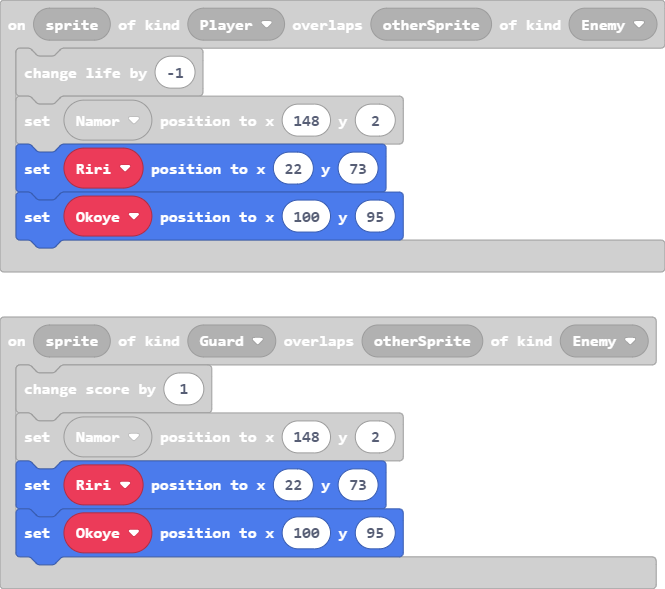
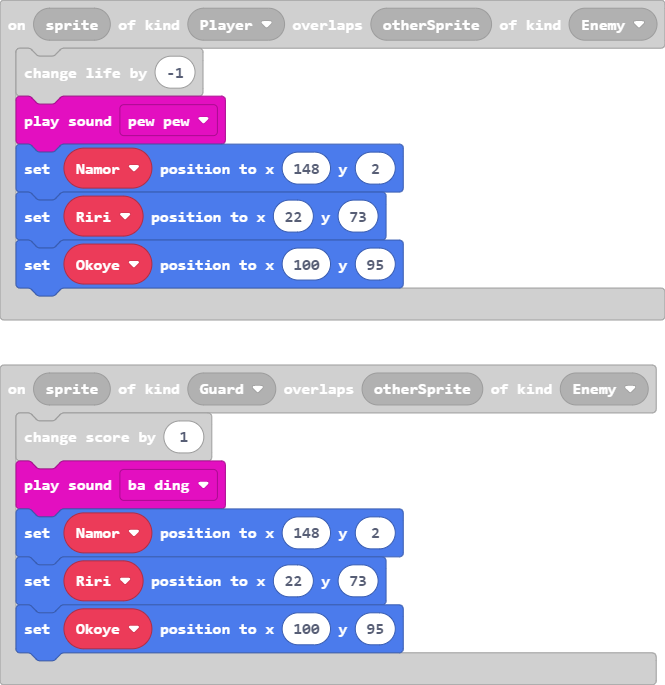
added music

Changed region(s): [[0.0, 0.5195, 0.9925, 0.9779], [0.0, 0.0306, 1.0, 0.489]]

diff --git a/main.ts b/main.ts
@@ -1,5 +1,6 @@
 sprites.onOverlap(SpriteKind.Guard, SpriteKind.Enemy, function (sprite, otherSprite) {
     info.changeScoreBy(1)
+    music.baDing.play()
     Namor.setPosition(148, 2)
     Riri.setPosition(22, 73)
     Okoye.setPosition(100, 95)
@@ -14,6 +15,7 @@ info.onScore(20, function () {
 })
 sprites.onOverlap(SpriteKind.Player, SpriteKind.Enemy, function (sprite, otherSprite) {
     info.changeLifeBy(-1)
+    music.pewPew.play()
     Namor.setPosition(148, 2)
     Riri.setPosition(22, 73)
     Okoye.setPosition(100, 95)
